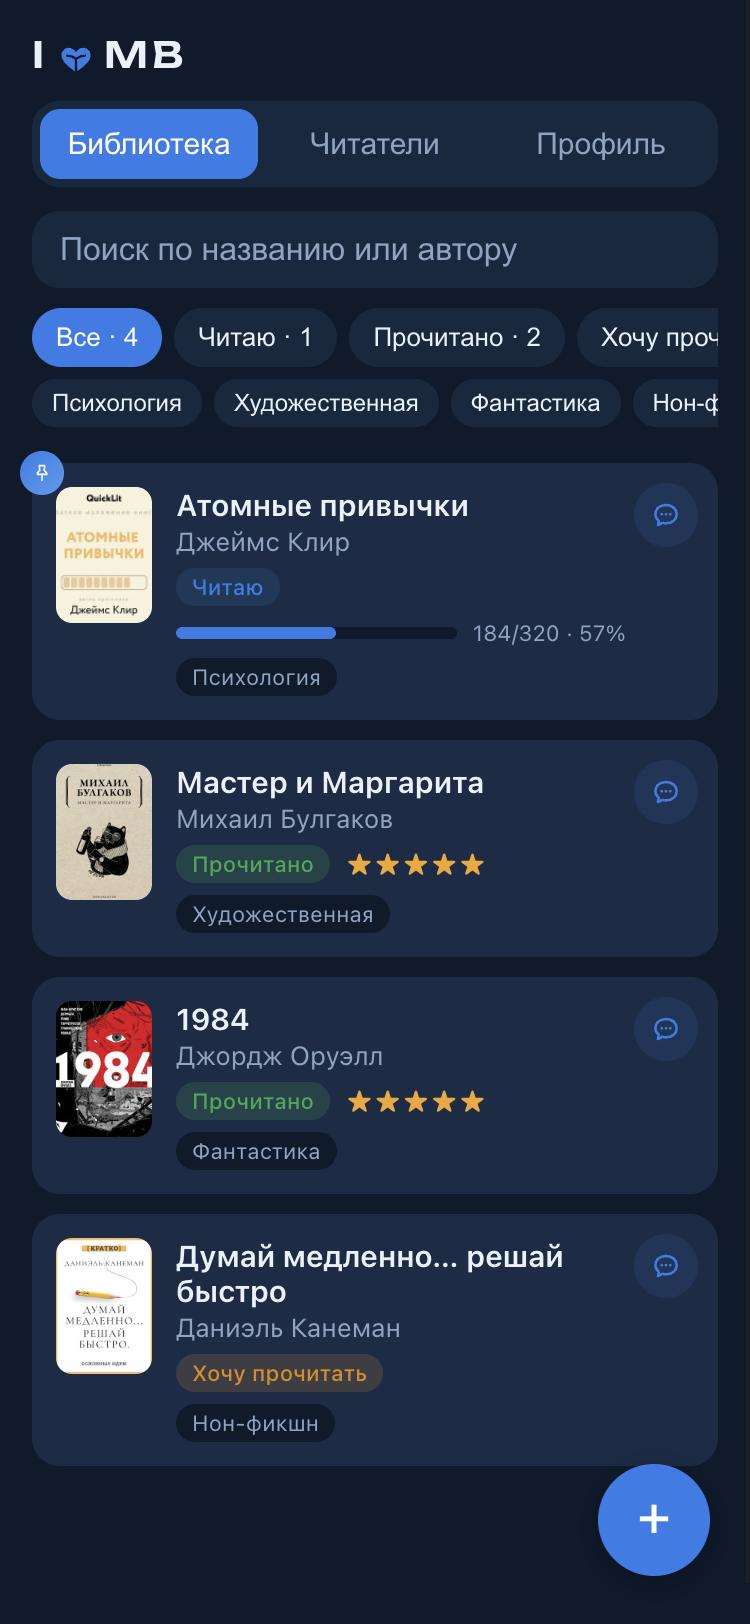
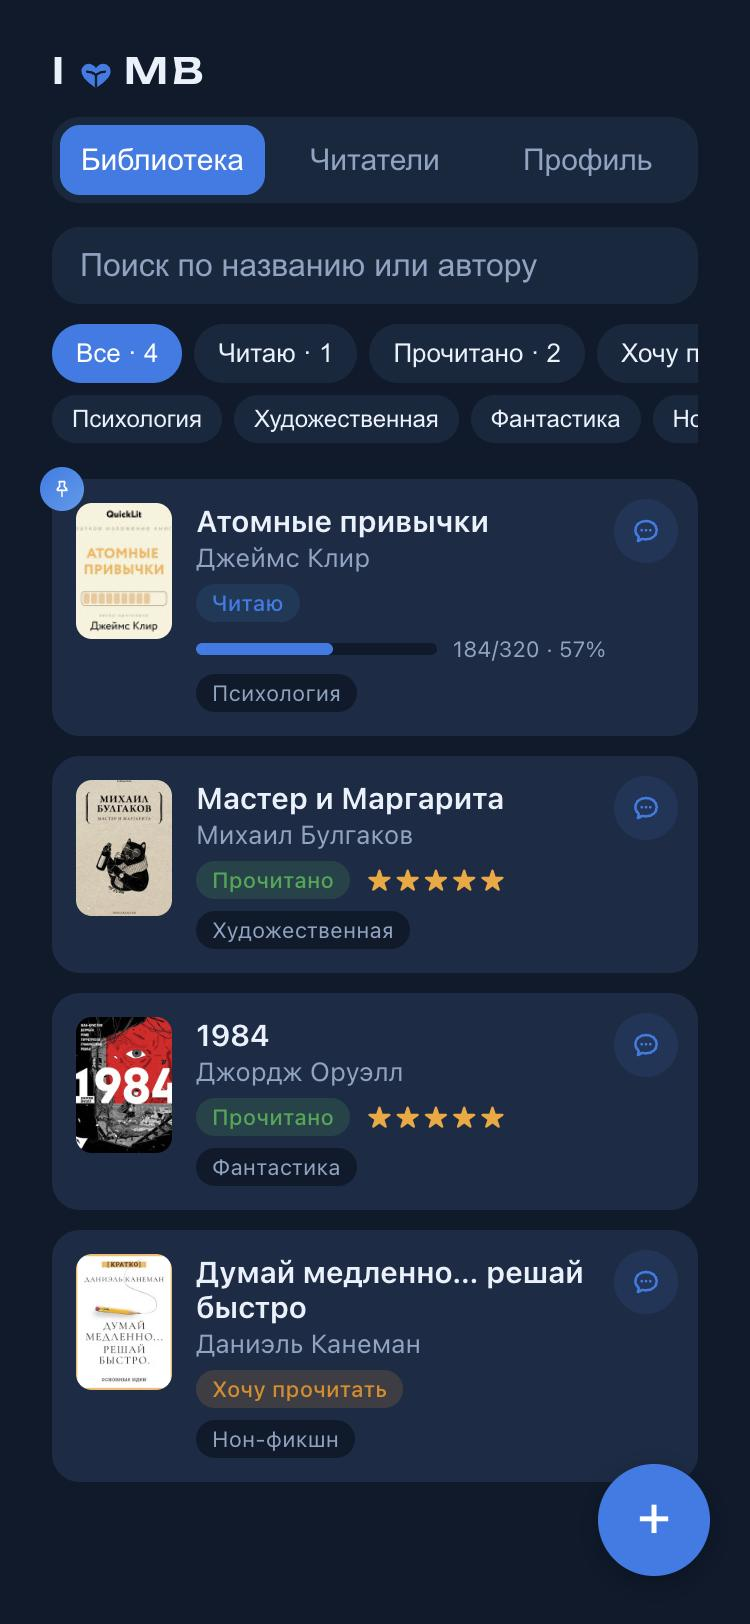
Креатив: ровный кадр приложения без масштабирования + вариант с прямым телефоном

diff --git a/promo/promo-straight.html b/promo/promo-straight.html
@@ -1,0 +1,144 @@
+<!doctype html>
+<html lang="ru">
+<head>
+<meta charset="utf-8" />
+<!-- шрифты лежат рядом: рендер не зависит от сети и всегда одинаковый -->
+<link rel="stylesheet" href="./fonts.css" />
+<style>
+  * { box-sizing: border-box; margin: 0; padding: 0; }
+
+  /* Холст 540×675 → при съёмке с DPR 2 получается 1080×1350 (формат 4:5 для Telegram) */
+  body {
+    width: 540px;
+    height: 675px;
+    overflow: hidden;
+    font-family: 'Inter', -apple-system, sans-serif;
+    background: #0d1a2c;
+    color: #e8f1fc;
+    position: relative;
+  }
+
+  /* свечение в тон приложения */
+  .glow-a, .glow-b { position: absolute; border-radius: 50%; filter: blur(70px); }
+  .glow-a { width: 420px; height: 420px; background: rgba(43,125,233,.42); top: -160px; left: -120px; }
+  .glow-b { width: 380px; height: 380px; background: rgba(79,156,240,.26); bottom: -170px; right: -110px; }
+
+  .wrap { position: relative; height: 100%; padding: 38px 36px 0; display: flex; flex-direction: column; }
+
+  /* логотип-надпись */
+  /* шрифт логотипа — тот же, что в приложении */
+  .brand { display: flex; align-items: center; gap: 2px; font-family: 'Unbounded', -apple-system, sans-serif; font-weight: 600; font-size: 20px; letter-spacing: 2px; }
+  .brand svg { width: 21px; height: 21px; margin: 0 2px; transform: translateY(1px); }
+
+  h1 { font-size: 40px; line-height: 1.08; font-weight: 700; letter-spacing: -1px; margin-top: 20px; }
+  h1 .accent { color: #6aa9f5; }
+
+  .sub { margin-top: 13px; font-size: 16.5px; line-height: 1.4; color: #9db4d2; max-width: 290px; }
+
+  .body-row { flex: 1; display: flex; gap: 16px; margin-top: 22px; }
+
+  .feats { display: flex; flex-direction: column; gap: 13px; padding-top: 6px; width: 218px; }
+  .feat { display: flex; align-items: flex-start; gap: 10px; }
+  .feat .ic {
+    width: 30px; height: 30px; flex-shrink: 0; border-radius: 9px;
+    background: rgba(43,125,233,.17); display: flex; align-items: center; justify-content: center;
+  }
+  .feat .ic svg { width: 16px; height: 16px; color: #6aa9f5; }
+  .feat .tx { font-size: 14.5px; line-height: 1.32; font-weight: 500; padding-top: 4px; }
+  .feat .tx b { font-weight: 700; }
+
+  /* телефон с живым экраном приложения */
+  .phone {
+    position: absolute; right: -16px; bottom: -52px;
+    /* пропорции экрана 375:812 — интерфейс не обрезается по бокам */
+    width: 236px; height: 495px;
+    border-radius: 34px; padding: 7px;
+    background: linear-gradient(160deg, #3b4f6b, #1a2740);
+    box-shadow: 0 26px 70px rgba(0,0,0,.6), 0 0 0 1px rgba(255,255,255,.07);
+    transform: rotate(0deg);
+  }
+  .phone .screen { width: 100%; height: 100%; border-radius: 28px; overflow: hidden; }
+  /* кадр показывается 1:1, без масштабирования — иначе края разъезжаются */
+  .phone img {
+    width: 100%; height: 100%;
+    object-fit: cover; object-position: top center;
+    display: block;
+  }
+
+  .cta {
+    position: absolute; left: 36px; bottom: 40px;
+    display: flex; flex-direction: column; align-items: flex-start; gap: 9px; z-index: 2;
+  }
+  .cta-btn {
+    display: inline-flex; align-items: center; gap: 9px;
+    background: linear-gradient(135deg, #2b7de9, #4f9cf0);
+    color: #fff; font-weight: 700; font-size: 16.5px;
+    padding: 14px 24px; border-radius: 30px;
+    box-shadow: 0 10px 26px rgba(43,125,233,.45);
+  }
+  .cta-btn svg { width: 19px; height: 19px; }
+  .cta-note { font-size: 13px; color: #8ba4c4; padding-left: 4px; }
+  .cta-note b { color: #cfe0f7; font-weight: 700; }
+</style>
+</head>
+<body>
+  <div class="glow-a"></div>
+  <div class="glow-b"></div>
+
+  <div class="wrap">
+    <div class="brand">
+      I
+      <svg viewBox="0 0 24 24" fill="none">
+        <path d="M12 20.8C11.6 20.8 7.5 18 5.4 15.6 3.6 13.6 2.9 11.7 3.4 9.8c.5-1.9 2-3.2 3.9-3.3 1.8-.1 3.5.8 4.7 2.4 1.2-1.6 2.9-2.5 4.7-2.4 1.9.1 3.4 1.4 3.9 3.3.5 1.9-.2 3.8-2 5.8-2.1 2.4-6.2 5.2-6.6 5.2Z" fill="#2b7de9"/>
+        <path d="M6.6 11.2c1.9 0 3.7.6 5.4 1.9 1.7-1.3 3.5-1.9 5.4-1.9" stroke="#0d1a2c" stroke-width="1.4" stroke-linecap="round" fill="none"/>
+        <path d="M12 13.1v7" stroke="#0d1a2c" stroke-width="1.4" stroke-linecap="round"/>
+      </svg>
+      MB
+    </div>
+
+    <h1>Все твои книги —<br /><span class="accent">в одном Telegram</span></h1>
+    <p class="sub">Для тех, кто читает и хочет видеть, что читают друзья</p>
+
+    <div class="body-row">
+      <div class="feats">
+        <div class="feat">
+          <span class="ic">
+            <svg viewBox="0 0 24 24" fill="none"><path d="M12 6.5c-1.6-1.4-3.8-2-6.5-2v13c2.7 0 4.9.6 6.5 2 1.6-1.4 3.8-2 6.5-2v-13c-2.7 0-4.9.6-6.5 2Z" stroke="currentColor" stroke-width="1.9" stroke-linejoin="round"/><path d="M12 6.5v13" stroke="currentColor" stroke-width="1.9"/></svg>
+          </span>
+          <span class="tx"><b>Полка с обложками</b><br />книга добавляется за 10 секунд</span>
+        </div>
+        <div class="feat">
+          <span class="ic">
+            <svg viewBox="0 0 24 24" fill="none"><rect x="4" y="5.5" width="16" height="14.5" rx="3" stroke="currentColor" stroke-width="1.8"/><path d="M4 10h16" stroke="currentColor" stroke-width="1.8"/><path d="M8.5 3.5v3.4M15.5 3.5v3.4" stroke="currentColor" stroke-width="1.8" stroke-linecap="round"/><rect x="7.4" y="12.6" width="3.4" height="3.4" rx="1" fill="currentColor"/></svg>
+          </span>
+          <span class="tx"><b>Прогресс по страницам</b><br />и календарь дней чтения</span>
+        </div>
+        <div class="feat">
+          <span class="ic">
+            <svg viewBox="0 0 24 24" fill="none"><circle cx="9" cy="8.5" r="3.2" stroke="currentColor" stroke-width="1.8"/><path d="M3.8 19c.4-2.9 2.6-4.7 5.2-4.7s4.8 1.8 5.2 4.7" stroke="currentColor" stroke-width="1.8" stroke-linecap="round"/><path d="M16.4 6.1a3 3 0 0 1 0 5.6M18.4 18.9c-.2-1.7-.8-3.1-1.8-4.1" stroke="currentColor" stroke-width="1.8" stroke-linecap="round"/></svg>
+          </span>
+          <span class="tx"><b>Друзья и обсуждения</b><br />смотри их полки, советуй своё</span>
+        </div>
+        <div class="feat">
+          <span class="ic">
+            <svg viewBox="0 0 24 24" fill="none"><path d="m12 4 2.3 4.9 5.2.7-3.8 3.7.9 5.3L12 16l-4.6 2.6.9-5.3-3.8-3.7 5.2-.7L12 4Z" fill="currentColor"/></svg>
+          </span>
+          <span class="tx"><b>Очки и звания</b><br />от Новичка до Гроссмейстера</span>
+        </div>
+      </div>
+    </div>
+
+    <div class="phone">
+      <div class="screen"><img src="./app-shot.jpg" alt="" /></div>
+    </div>
+
+    <div class="cta">
+      <div class="cta-btn">
+        <svg viewBox="0 0 24 24" fill="currentColor"><path d="M21.6 4.3 2.9 11.5c-.9.4-.9 1.6 0 1.9l4.7 1.5 1.8 5.6c.2.7 1.1.9 1.6.3l2.5-2.6 4.7 3.5c.6.4 1.5.1 1.7-.7l3-15.1c.2-.9-.7-1.6-1.3-1.6Z"/></svg>
+        Открыть в Telegram
+      </div>
+      <div class="cta-note"><b>@i_love_my_book_bot</b> · бесплатно</div>
+    </div>
+  </div>
+</body>
+</html>

diff --git a/promo/promo.html b/promo/promo.html
@@ -58,13 +58,11 @@
     transform: rotate(-4deg);
   }
   .phone .screen { width: 100%; height: 100%; border-radius: 28px; overflow: hidden; }
-  /* лёгкий сдвиг вправо: логотип в шапке приложения не прижимается к рамке */
+  /* кадр показывается 1:1, без масштабирования — иначе края разъезжаются */
   .phone img {
     width: 100%; height: 100%;
     object-fit: cover; object-position: top center;
     display: block;
-    transform: scale(1.06) translateX(6px);
-    transform-origin: top center;
   }
 
   .cta {
